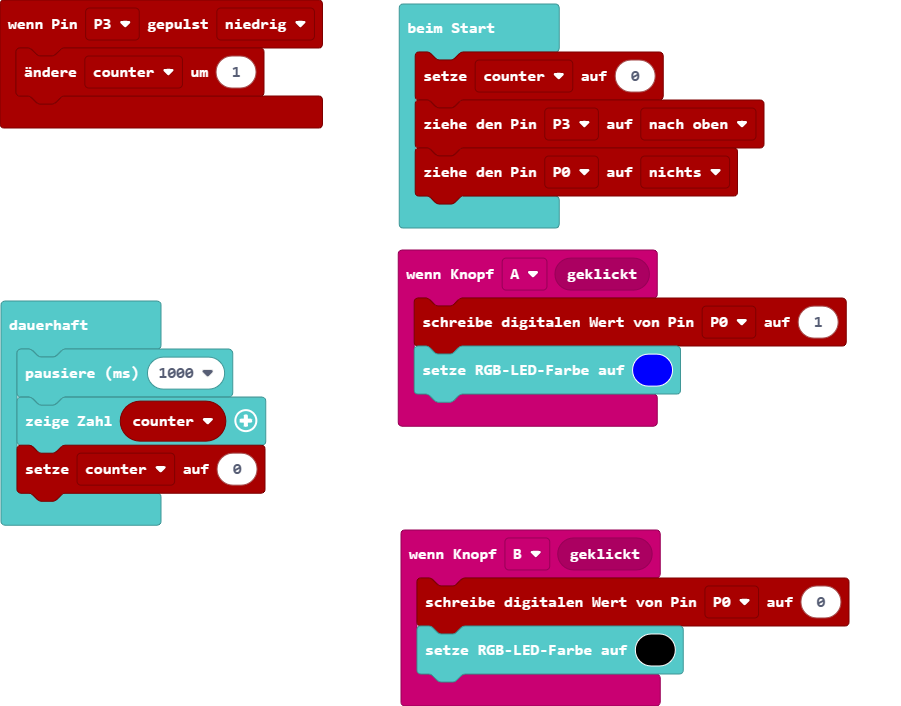
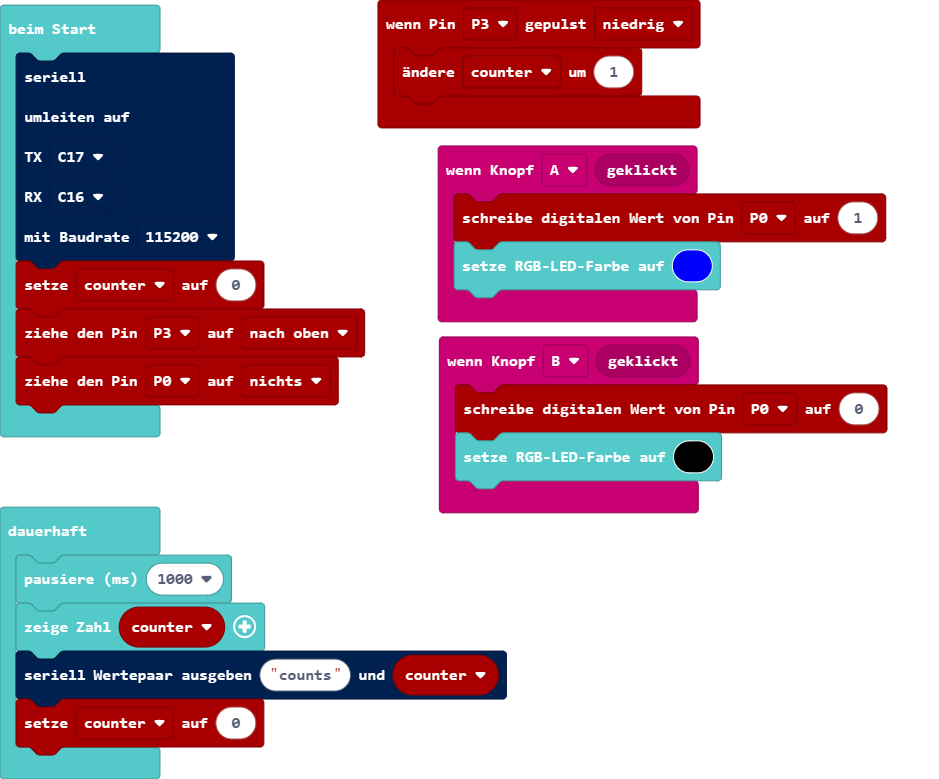
Aktualisiere main.blocks, main.ts

diff --git a/main.ts b/main.ts
@@ -9,11 +9,17 @@ input.onButtonEvent(Button.B, input.buttonEventClick(), function () {
     pins.digitalWritePin(DigitalPin.P0, 0)
     basic.setLedColor(0x000000)
 })
+serial.redirect(
+SerialPin.C17,
+SerialPin.C16,
+BaudRate.BaudRate115200
+)
 let counter = 0
 pins.setPull(DigitalPin.P3, PinPullMode.PullUp)
 pins.setPull(DigitalPin.P0, PinPullMode.PullNone)
 basic.forever(function () {
     basic.pause(1000)
     basic.showNumber(counter)
+    serial.writeValue("counts", counter)
     counter = 0
 })
